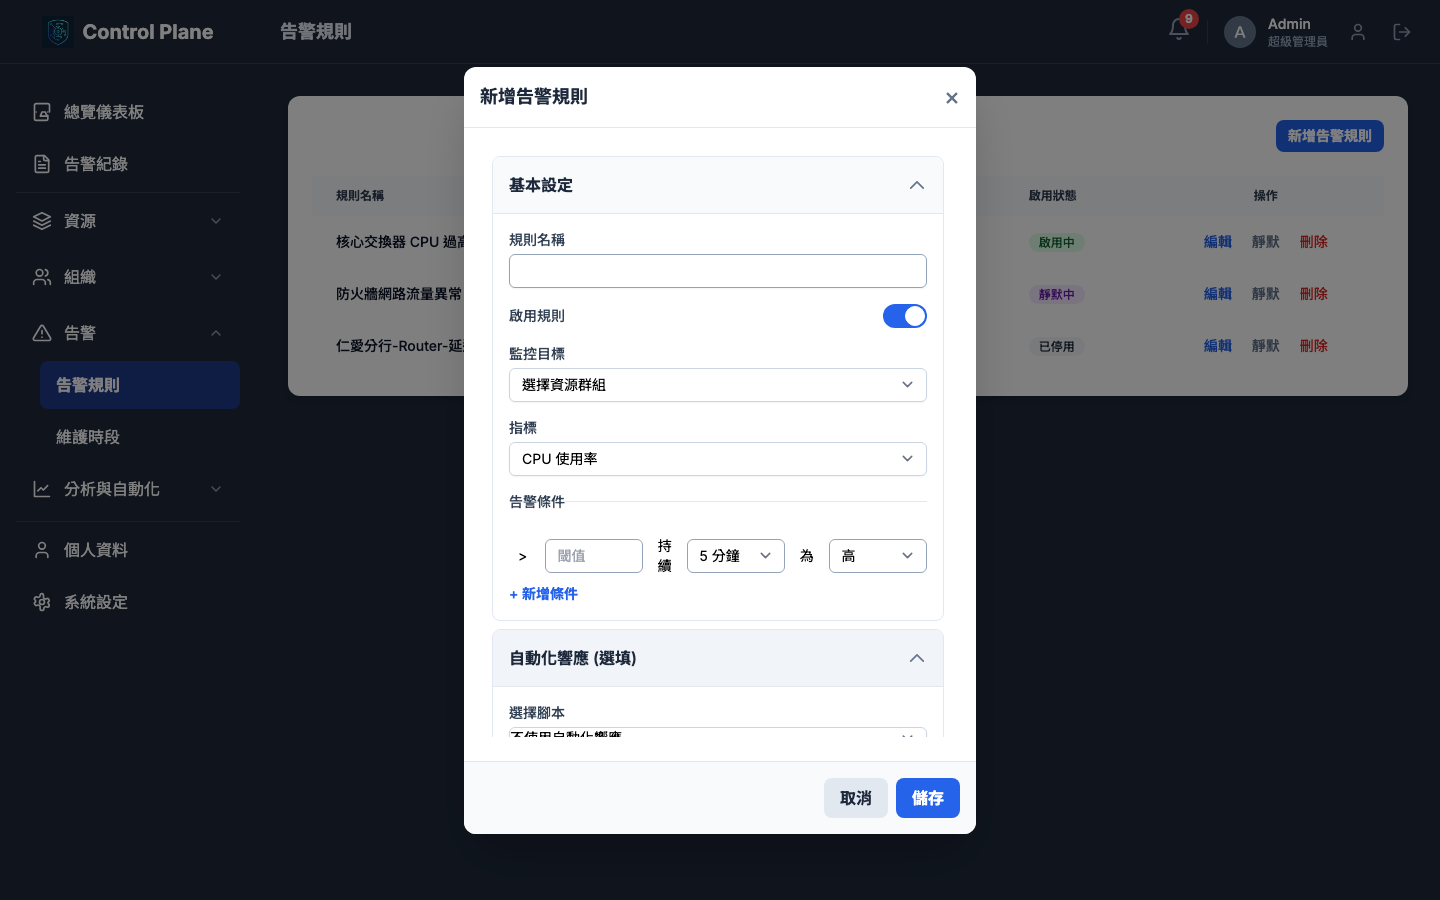
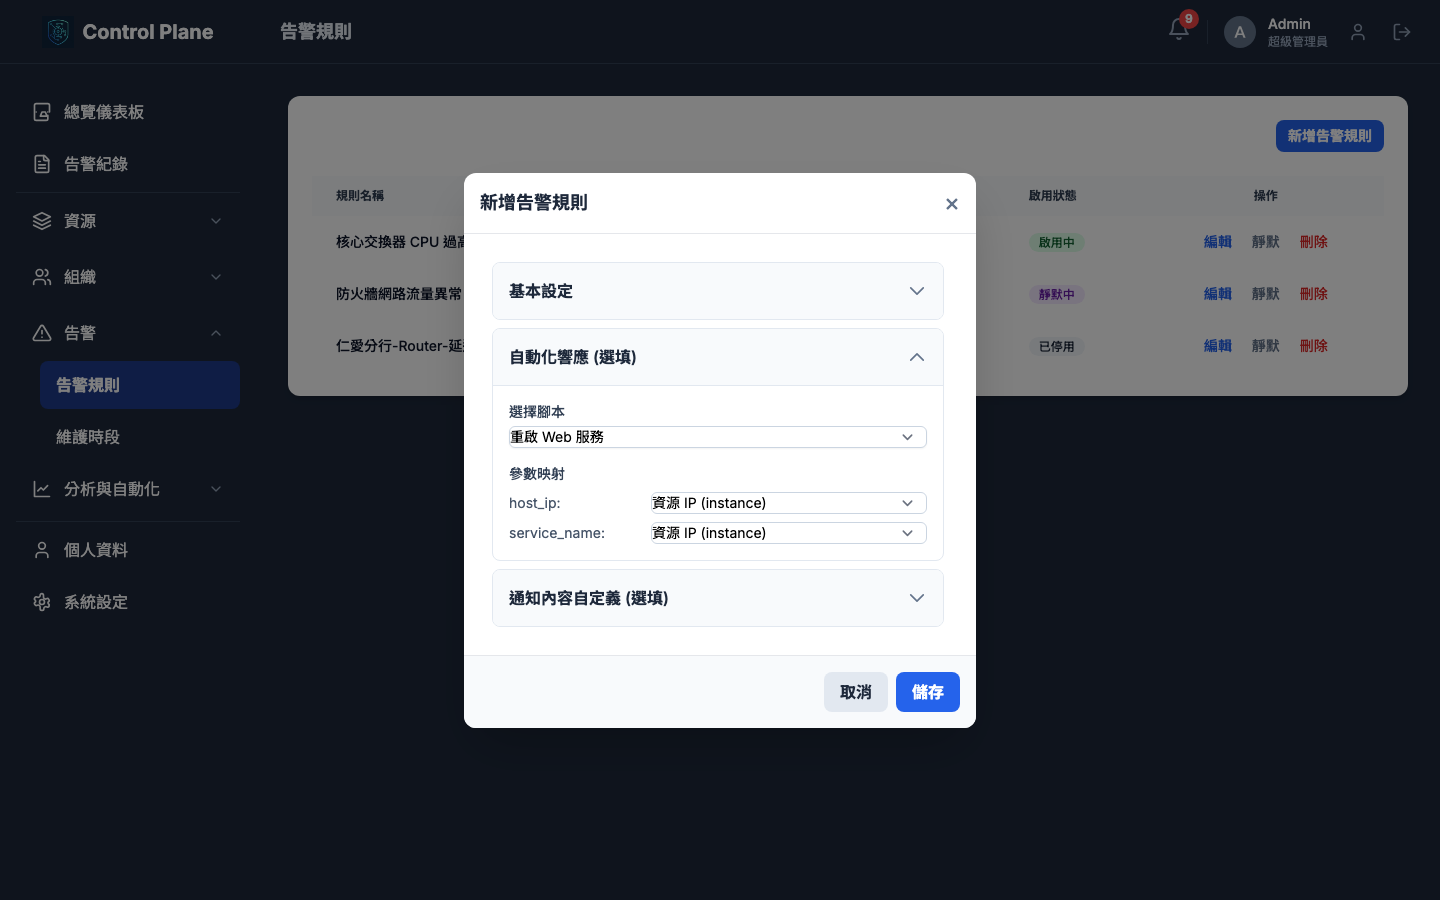
update

diff --git a/jules-scratch/create_gif.py b/jules-scratch/create_gif.py
@@ -94,11 +94,14 @@ def run_gif_creation(playwright):
     take_screenshot("08_add_rule_modal")
 
     # Expand Automation section
+    page.locator('.accordion-header').nth(0).click()
     page.locator('.accordion-header').nth(1).click()
+    page.locator('#automation-script-select').select_option(label='重啟 Web 服務')
     page.wait_for_timeout(500)
     take_screenshot("09_add_rule_modal_automation_expanded")
 
     # Expand Notification section
+    page.locator('.accordion-header').nth(1).click()
     page.locator('.accordion-header').nth(2).click()
     page.wait_for_timeout(500)
     take_screenshot("10_add_rule_modal_all_expanded")

diff --git a/USERGUIDE.md b/USERGUIDE.md
@@ -112,21 +112,25 @@ Control Plane 是一個以後端驅動 (Backend-Driven) 為核心理念的現代
 
 在「新增/編輯告警規則」的彈出視窗中，您可以設定所有與規則相關的參數。我們採用了摺疊式介面，將複雜的設定拆分為三個區塊，讓整體設定流程更加清晰有條理：
 
-![新增告警規則的彈出視窗，完整展示所有設定選項](jules-scratch/gif_frames/frame_009_10_add_rule_modal_all_expanded.png)
-
 1.  **基本設定 (Basic Settings)**:
     *   **規則名稱**: 為您的規則取一個易於識別的名稱。
     *   **描述**: (選填) 簡要說明此規則的目的。
     *   **設備群組**: 選擇此規則要應用的設備群組。
     *   **條件**: 設定觸發告警的具體條件，例如 `CPU 使用率 > 80%`。
 
+    ![新增告警規則的彈出視窗，完整展示所有設定選項](jules-scratch/gif_frames/frame_007_08_add_rule_modal.png)
+
 2.  **自動化響應 (Automated Response)**:
     *   (選填) 您可以選擇性地為此規則綁定一個預先定義好的「自動化腳本」。
     *   當告警觸發時，系統將自動執行您指定的腳本（例如：重啟服務、清理磁碟），實現秒級的故障自動排除。
 
+    ![新增告警規則的彈出視窗，完整展示所有設定選項](jules-scratch/gif_frames/frame_008_09_add_rule_modal_automation_expanded.png)
+
 3.  **通知內容自定義 (Custom Notification Content)**:
     *   (選填) 系統允許您客製化告警通知的標題與內容。
     *   您可以使用 `{{ .DeviceName }}`、`{{ .MetricValue }}` 等變數來動態插入告警的上下文資訊，讓收到的通知更具可讀性與參考價值。
+
+    ![新增告警規則的彈出視窗，完整展示所有設定選項](jules-scratch/gif_frames/frame_009_10_add_rule_modal_all_expanded.png)
 
 ## 7. 自動化 (Automation)
 
@@ -150,9 +154,11 @@ Control Plane 是一個以後端驅動 (Backend-Driven) 為核心理念的現代
 
 本平台提供主動式的資源規劃工具。您可以選擇一個「設備群組」和一個關鍵指標（如 CPU 或磁碟使用率），系統將分析歷史數據並預測未來的資源趨勢。
 
+![容量規劃](jules-scratch/screenshot_pages/capacity.png)
+
 分析結果將以易懂的卡片和圖表呈現，例如：「預計將在 45 天後達到 80% 警戒線」，幫助您提前應對潛在的容量瓶頸。
 
-![容量規劃](jules-scratch/screenshot_pages/capacity.png)
+
 ![容量規劃結果](jules-scratch/gif_frames/frame_016_17_capacity_planning_results.png)
 
 ## 9. 告警紀錄 (Logs/Incidents)
@@ -160,18 +166,18 @@ Control Plane 是一個以後端驅動 (Backend-Driven) 為核心理念的現代
 此頁面是所有告警事件的集中地，您可以在此查看、搜尋、處理所有歷史與當前的告警。點擊任一筆紀錄即可開啟「事件詳情」視窗進行處理。
 
 ![告警紀錄](jules-scratch/screenshot_pages/logs.png)
-![事件詳情](jules-scratch/screenshot_modals/modal_incident_details.png)
 
 ### 9.1. 檢視與篩選
 
 提供基於時間範圍、告警等級與處理狀態的進階篩選功能。點擊單筆告警可查看詳細資訊，並進行確認 (Acknowledge) 或解決 (Resolve) 等操作。
+
+![事件詳情](jules-scratch/screenshot_modals/modal_incident_details.png)
 
 ### 9.2. AI 輔助生成報告
 
 您可以勾選多筆相關的告警事件，點擊「生成事件報告」。系統會呼叫 Gemini AI，自動為您產出一份結構化的事件根本原因分析報告，大幅縮短撰寫報告的時間。
 
 ![AI 輔助報告](jules-scratch/gif_frames/frame_012_13_logs_ai_report.png)
-![Gemini 報告](jules-scratch/screenshot_modals/modal_gemini_report.png)
 
 ## 10. 通知管道 (Notification Channels)
 
@@ -183,27 +189,30 @@ Control Plane 是一個以後端驅動 (Backend-Driven) 為核心理念的現代
 - **Slack**: 需要填寫 `Incoming Webhook URL`。
 - **LINE Notify**: 需要填寫 `存取權杖 (Access Token)`。
 
+![通知管道](jules-scratch/screenshot_modals/modal_edit_channel.png)
+
 ## 11. 個人資料與系統設定
 
 ### 11.1. 個人資料 (Profile)
 
 此頁面採用頁籤式設計，讓您能方便地管理個人資訊：
 - **個人資訊**: 查看您的姓名、角色、所屬團隊。
-- **密碼安全**: 變更您的登入密碼。
-- **通知設定**:
-    - **聯絡方式**: 設定並「驗證」您接收告警的 Email、LINE 或 SMS。**系統只會將通知發送到已驗證的管道**。
-    - **通知偏好**: 選擇您希望接收哪些嚴重等級的告警。
-
 ![個人資料](jules-scratch/screenshot_pages/profile.png)
+
+- **密碼安全**: 變更您的登入密碼。
+![個人資料 - 密碼安全](jules-scratch/gif_frames/frame_018_19_profile_security_tab.png)
+
+- **通知設定**:
+  - **聯絡方式**: 設定並「驗證」您接收告警的 Email、LINE 或 SMS。**系統只會將通知發送到已驗證的管道**。
+  - **通知偏好**: 選擇您希望接收哪些嚴重等級的告警。
 ![個人資料 - 通知設定](jules-scratch/gif_frames/frame_019_20_profile_notifications_tab.png)
+
 
 ### 11.2. 系統設定 (Settings)
 
 此頁面僅供系統管理員存取，同樣採用頁籤式設計，用於管理全域設定。
 
 - **整合設定**: 設定與外部系統（如 Grafana）的串接參數。
-- **通知設定**: 設定系統用於發送通知的後端服務，如郵件伺服器 (SMTP) 或 SMS 閘道。由於內容較長，此分頁可向下滾動檢視所有設定。
-
 ![系統設定 - 整合設定](jules-scratch/screenshot_pages/settings.png)
-![系統設定 - 通知設定 (上半部)](jules-scratch/screenshot_pages/settings_notification_tab.png)
-![系統設定 - 通知設定 (下半部)](jules-scratch/screenshot_pages/settings_notification_tab_scrolled.png)
+- **通知設定**: 設定系統用於發送通知的後端服務，如郵件伺服器 (SMTP) 或 SMS 閘道。由於內容較長，此分頁可向下滾動檢視所有設定。
+![系統設定 - 通知設定](jules-scratch/screenshot_pages/settings_notification_tab.png)
